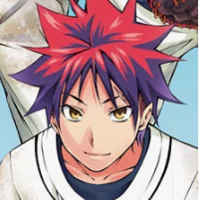
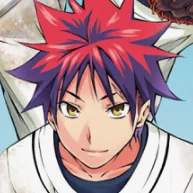
Quarante et un titres pour Manganime, et un i qui manquait
Lot suggere par un joueur dans /signaler. Sur ses 47 titres, 13 etaient
deja en banque : 8 au meme nom, 2 sous leur titre anglais (AFTER THE RAIN,
WE NEVER LEARN), 3 sous une forme incomplete. Les 34 autres entrent, plus
7 partenaires de groupe. Manganime : 1287 -> 1328.

⚠ KAKKOU NO INAZUKE etait MAL ORTHOGRAPHIE : il manque un i a iinazuke
(le japonais est « Kakkou no Iinazuke »). Un joueur qui ecrivait le titre
correctement etait refuse, et la correspondance souple ne le rattrapait
pas : elle retire les espaces et les apostrophes, jamais une lettre.

⚠ Les sept groupes ajoutes sont TOUS indispensables, dont trois pour une
raison contre-intuitive : dans Manganime la regle du mot entier ne joue
pas (getAllNamesToBlock sort en « exact match » pour ce theme). Un titre
contenu mot pour mot dans un autre — MASAMUNE KUN dans MASAMUNE KUN NO
REVENGE — n est donc relie par rien, et les deux comptaient deux fois.

« FUUFU IJOU KOIBITO MIMAN » rejoint le groupe EXISTANT de FUUFU IJOU au
lieu d en former un second, qui aurait laisse le titre complet citable
avec MORE THAN A MARRIED COUPLE.

Et soma.webp est remplace par la nouvelle vignette (193x193, 10 Ko).

test:bomb et test:ordre passent.

diff --git a/character-variants.js b/character-variants.js
@@ -623,7 +623,12 @@ const CHARACTER_VARIANTS = {
         ["JE PEUX ENTENDRE L'OCEAN" , "JE PEUX ENTENDRE LOCEAN"],
         ["JIBAKU SHOUNEN HANAKO KUN" , "TOILET BOUND HANAKO KUN" , "HANAKO KUN" , "HANAKO"],
         ["ADACHI AND SHINAMURA" , "ADACHI TO SHINAMURA"],
-        ["PRESQUE MARIES LOIN DETRE AMOUREUX" , "PRESQUE MARIES LOIN D'ETRE AMOUREUX" , "FUFU IJO" , "FUUFU IJOU" ,  "MORE THAN A MARRIED COUPLE"],
+        // ⚠ « FUUFU IJOU KOIBITO MIMAN » rejoint CE groupe, il n en forme pas
+        // un second : le titre complet contient « FUUFU IJOU » mot pour mot,
+        // mais dans Manganime la regle du mot entier ne joue pas (voir plus
+        // bas), donc rien ne les reliait. Deux groupes separes auraient laisse
+        // le titre complet et « MORE THAN A MARRIED COUPLE » citables ensemble.
+        ["PRESQUE MARIES LOIN DETRE AMOUREUX" , "PRESQUE MARIES LOIN D'ETRE AMOUREUX" , "FUFU IJO" , "FUUFU IJOU" , "FUUFU IJOU KOIBITO MIMAN" ,  "MORE THAN A MARRIED COUPLE"],
         ["KIWI WA HOUKAGO INSOMNIA" , "INSOMNIACS AFTER SCHOOL"],
         ["LAID BACK CAMP" , "YURU CAMP"],
         ["HIKARU GA SHINDA NATSU" , "THE SUMMER HIKARU DIED"],
@@ -672,6 +677,28 @@ const CHARACTER_VARIANTS = {
         ["ADOLF" , "ADOLF NI TSUGU"],
         ["MORIARTY THE PATRIOT" , "YUUKOKU NO MORIARTY" , "MORIARTY"],
         ["L'ATELIER DES SORCIERS" , "WITCH HAT ATELIER" , "ATELIER DES SORCIERS" , "LATELIER DES SORCIERS", "TONGARI BOSHI NO ATELIER"],
+
+        // ============================================
+        // Lot suggere par un joueur dans /signaler, 21 nov. 2026
+        // ============================================
+        // ⚠ CES GROUPES SONT TOUS INDISPENSABLES, et deux d entre eux pour une
+        // raison contre-intuitive. Ailleurs, la regle du MOT ENTIER relie deja
+        // un titre a celui qui le contient. Pas ici : getAllNamesToBlock sort
+        // en « exact match uniquement » des que le theme est Manganime, sinon
+        // « DRAGON BALL » bloquerait « DRAGON BALL Z ». Consequence : meme un
+        // titre contenu mot pour mot dans un autre n est relie par RIEN, et
+        // sans groupe les deux se citent a la suite en comptant deux fois.
+        ["KOI WA AMEAGARI NO YOU NI" , "AFTER THE RAIN"],
+        ["BOKUBEN" , "WE NEVER LEARN"],
+        ["MASAMUNE KUN" , "MASAMUNE KUN NO REVENGE"],
+        ["KAKKOU NO IINAZUKE" , "A COUPLE OF CUCKOOS" , "COUPLE OF CUCKOOS"],
+        ["ARABURU KISETSU NO OTOME DOMO YO" , "MAIDENS OF THE SAVAGE SEASON"],
+        // ⚠ « BASTARD » reste DEHORS, et ce n est pas un oubli : c est le
+        // Bastard!! de Hagiwara, une autre œuvre, qui a sa propre entree en
+        // banque. L exact match la protege — mais si quelqu un rebranchait un
+        // jour la regle du mot entier sur Manganime, elle tomberait avec ce
+        // groupe. C est ecrit ici pour qu on le voie venir.
+        ["AKASHIC RECORDS OF BASTARD MAGIC INSTRUCTOR" , "BASTARD MAGIC INSTRUCTOR"],
 
     ],
 
